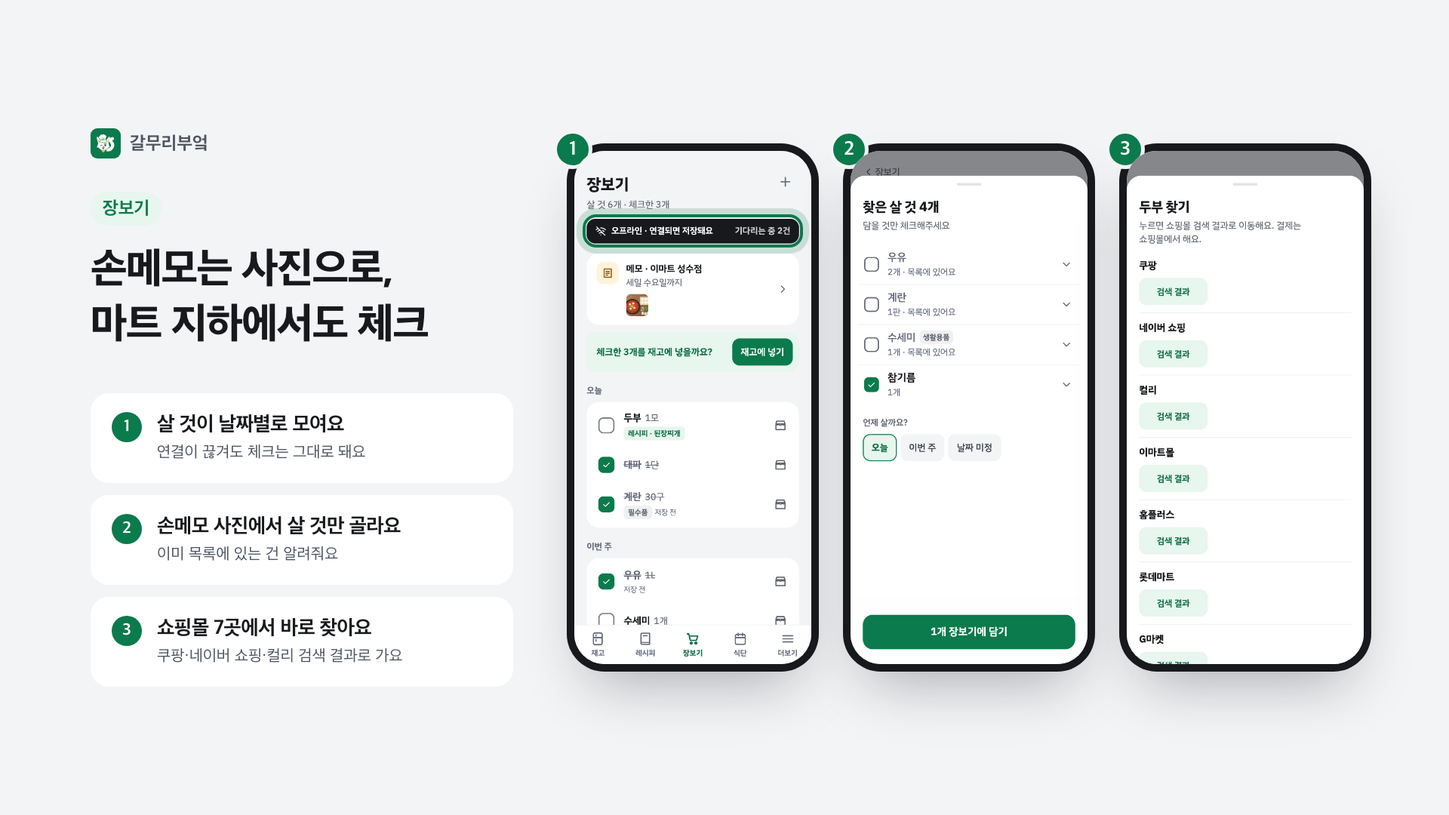
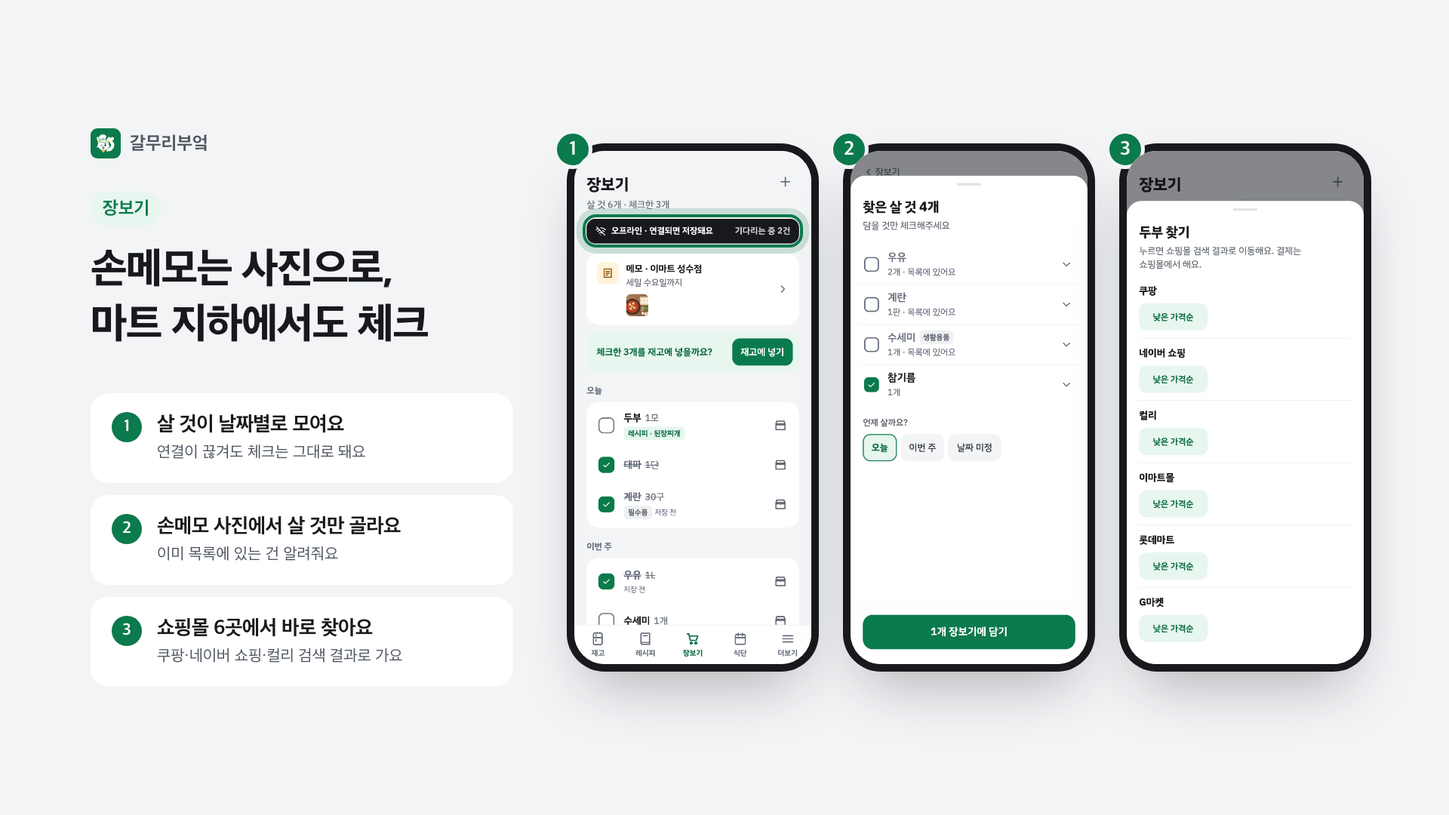
fix: 첫인상·접근성·제출 자료 다듬기
운영 화면 12장을 관점별로 다시 보고, 반증 검증을 통과한 것만 반영했습니다.

제출 자료 사실 오류
- 슬라이드 3번이 `쇼핑몰 7곳에서 바로 찾아요`라고 적고, 품고 있던 스크린샷은
  9/14판이라 9/17에 뺀 홈플러스가 찍혀 있었습니다. 실제 storeLinks.ts는
  쿠팡·네이버 쇼핑·컬리·이마트몰·롯데마트·G마켓 6곳입니다. 문구를 6곳으로
  고치고, 운영 체험 계정에서 같은 시트를 1152×2496으로 다시 찍어 바꾼 뒤
  슬라이드를 다시 구웠습니다. 심사위원이 운영에서 같은 화면을 열어도 이제
  어긋나지 않습니다.

첫인상
- 폰으로 /?demo=1을 연 사람은 이 앱이 무엇인지 알 방법이 없었습니다. 제목은
  `내 재고`뿐이고 앱 이름은 화면에 없으며, index.html의 좋은 한 줄은 1024px
  미만에서 display:none이라 폰에서는 구조적으로 못 봅니다. 체험 안내 카드
  첫 문장에 `갈무리부엌은 재료가 상하기 전에 알려주고, 그 재료로 만들 요리를
  찾아줘요`를 넣었습니다. 굵게 처리되는 조각과 조사 로직은 그대로입니다.

접근성
- 별점 `--star` #e0a100은 흰 카드 위 2.27:1로 WCAG 1.4.11(3:1)에 못 미쳤습니다
  → #b07e00(4.6:1). 다크 모드 #f5c542는 이미 10.5:1이라 그대로입니다.
- 첫 화면 `사진 찍어보기` 버튼이 연녹색 카드 위 흰 배경이라 경계가 1.12:1로
  묻혔습니다 → .btn.outline과 같은 방식으로 테두리(3.61:1).

카피 규칙
- 붙임 보조용언에서 빠져 있던 4곳(`추가해 보세요`·`확인해 보세요`)을 붙여 썼습니다.
  같은 앱 레시피 화면은 이미 `추가해보세요`로 붙여 씁니다.

문서 수치
- 커밋 781개·병합 261개, 백엔드 테스트 1,667개, 기준 커밋 4d2a0c3로 갱신
  (01·05·README). 체크리스트 4절 폰 점검 5건을 오늘 운영 확인 결과로 채웠습니다.

검증: 백엔드 1,667개(SQLite·PostgreSQL 모두), `npm run check`, `npm run build`,
로컬 E2E 81개 통과. 첫 화면은 로컬에서 직접 그려 카드가 목록을 밀지 않는 것을
확인했습니다.

Claude-Session: https://claude.ai/code/session_012cAehmfNdEpe3RmU76UHhU

Changed region(s): [[0.7812, 0.2139, 0.9375, 0.7944], [0.1562, 0.7639, 0.25, 0.7944]]

diff --git a/frontend/src/demoGuide.ts b/frontend/src/demoGuide.ts
@@ -28,8 +28,8 @@ export const dueText = (days: number) => (days === 0 ? "오늘까지예요" : da
 /** 재고 화면 안내 카드 문장을 [앞, 굵게, 뒤]로 */
 export function guideText(items: Dated[]): [string, string, string] {
   const first = urgentItems(items)[0];
-  if (!first) return ["냉장고를 미리 채워뒀어요. 곧 먹어야 할 재료로 뭘 만들 수 있을지 같이 볼까요?", "", ""];
-  return ["냉장고를 미리 채워뒀어요. 그런데 ", `${josa(first.name, "이", "가")} ${dueText(first.days_left!)}!`, ` ${withRo(first.name)} 뭘 만들 수 있을지 같이 볼까요?`];
+  if (!first) return ["갈무리부엌은 재료가 상하기 전에 알려주고, 그 재료로 만들 요리를 찾아줘요. 체험 냉장고를 채워뒀어요. 곧 먹어야 할 재료로 뭘 만들 수 있을지 같이 볼까요?", "", ""];
+  return ["갈무리부엌은 재료가 상하기 전에 알려주고, 그 재료로 만들 요리를 찾아줘요. 체험 냉장고를 채워뒀는데 ", `${josa(first.name, "이", "가")} ${dueText(first.days_left!)}!`, ` ${withRo(first.name)} 뭘 만들 수 있을지 같이 볼까요?`];
 }
 
 /** 레시피 추천 칸 AI 카드 말풍선. names는 급한 재료 이름(앞 두 개만 쓴다). 으로/로는 마지막 이름을 따른다 */

diff --git a/docs/submission/form/src/03-장보기.html b/docs/submission/form/src/03-장보기.html
@@ -6,7 +6,7 @@
 <ul class="points">
 <li><span class="n">1</span><div><b>살 것이 날짜별로 모여요</b><span>연결이 끊겨도 체크는 그대로 돼요</span></div></li>
 <li><span class="n">2</span><div><b>손메모 사진에서 살 것만 골라요</b><span>이미 목록에 있는 건 알려줘요</span></div></li>
-<li><span class="n">3</span><div><b>쇼핑몰 7곳에서 바로 찾아요</b><span>쿠팡·네이버 쇼핑·컬리 검색 결과로 가요</span></div></li>
+<li><span class="n">3</span><div><b>쇼핑몰 6곳에서 바로 찾아요</b><span>쿠팡·네이버 쇼핑·컬리 검색 결과로 가요</span></div></li>
 </ul></div>
 <div class="stage">
 <figure class="phone"><span class="n">1</span><div class="screen"><img class="" src="../../screenshots/15-offline-banner.png" alt=""><i class="ring" style="left:3.5%;top:12.4%;width:93%;height:6.4%"></i></div></figure>

diff --git a/frontend/src/components/StaplesSheet.tsx b/frontend/src/components/StaplesSheet.tsx
@@ -111,7 +111,7 @@ export default function StaplesSheet({ staples, initialMissingOnly = false, onCh
       )}
 
       {groups.length === 0 ? (
-        <p className="hint">{staples.length === 0 ? "아직 등록한 필수품이 없어요. 위에서 추가해 보세요." : "떨어진 필수품이 없어요."}</p>
+        <p className="hint">{staples.length === 0 ? "아직 등록한 필수품이 없어요. 위에서 추가해보세요." : "떨어진 필수품이 없어요."}</p>
       ) : (
         <div className="groups">
           {groups.map((group) => (

diff --git a/frontend/src/components/ToolForm.tsx b/frontend/src/components/ToolForm.tsx
@@ -118,7 +118,7 @@ export default function ToolForm({ initial, onSubmit, onChecked, onReplaced, onD
             ))}
           </div>
           {isCoated(name) && (
-            <p className="hint">코팅이 30% 이상 벗겨졌다면 교체를 권장해요(식약처 기준). 6개월마다 상태를 확인해 보세요.</p>
+            <p className="hint">코팅이 30% 이상 벗겨졌다면 교체를 권장해요(식약처 기준). 6개월마다 상태를 확인해보세요.</p>
           )}
         </div>
 

diff --git a/frontend/src/styles.css b/frontend/src/styles.css
@@ -29,7 +29,7 @@
   --protein: #2f7fd1;
   --fat: #b45fa8;
   --track: #e9ecef;
-  --star: #e0a100;
+  --star: #b07e00;
   color-scheme: light dark;
 }
 
@@ -7822,6 +7822,8 @@ button.ck-month {
 .demo-guide-acts .btn.secondary {
   background: var(--surface);
   color: var(--text);
+  /* 연녹색 카드 위 흰 버튼이라 경계가 1.12:1로 묻힌다 — .btn.outline과 같은 방식으로 테두리를 준다 */
+  box-shadow: inset 0 0 0 1.5px var(--control-line);
 }
 
 .r3-ai.spot {

diff --git a/frontend/src/pages/Fridge.tsx b/frontend/src/pages/Fridge.tsx
@@ -293,7 +293,7 @@ export default function Fridge({ user }: { user: User }) {
           ) : (
             <>
               <p>{items && items.length > 0 ? "이 위치에는 재료가 없어요." : "재고가 비어 있어요."}</p>
-              <p className="muted">아래 버튼으로 재료를 추가해 보세요.</p>
+              <p className="muted">아래 버튼으로 재료를 추가해보세요.</p>
             </>
           )}
         </div>

diff --git a/frontend/src/pages/Tools.tsx b/frontend/src/pages/Tools.tsx
@@ -77,7 +77,7 @@ export default function Tools() {
       ) : tools.length === 0 ? (
         <div className="empty">
           <p>등록한 도구가 없어요.</p>
-          <p className="muted">프라이팬, 뒤집개처럼 자주 쓰는 도구를 추가해 보세요.</p>
+          <p className="muted">프라이팬, 뒤집개처럼 자주 쓰는 도구를 추가해보세요.</p>
         </div>
       ) : (
         <ul className="list">

diff --git a/docs/submission/04-제출-체크리스트.md b/docs/submission/04-제출-체크리스트.md
@@ -35,6 +35,7 @@ push하면 Render가 1분쯤 뒤 자동으로 배포합니다(Auto-Deploy를 끄
 | [x] | 10 | `git push origin main`(`9410577`) | 사용자 | 완료. 쇼핑몰 6곳 모두 낮은 가격순(컬리·롯데마트 제타·G마켓 추가, 홈플러스 뺌), 식단 스크린샷 다시 찍기·39번 추가, 제출 문서·체크리스트 갱신. |
 | [x] | 11 | `git push origin main`(미뤄 둔 버그 수정, 9/17 밤) | 사용자 승인 | 화면 읽기·포커스 7건, 화면 동작 9건(메모 닫기 전 확인, `50원 미만`, 새 탭 열기 등), 서버·로그인 3건(로그인 뒤 보던 화면 유지, 출처 주소 검사, 같은 링크 다시 가져오기 안내). 검토 3건 통과, 백엔드 1,608개(SQLite·PostgreSQL), `npm run check`·`build`, E2E 79개 통과 뒤 push. |
 | [x] | 12 | `git push origin main`(`bbae138`) | 사용자 | 완료. 기본 필수품 72개를 모든 사용자에게(가입 시드 + 기존 사용자 한 번 채우기), 배너는 한 번이라도 있었던 필수품만, 필수품↔재료 이름 비교 규칙 분리. 로그인 말풍선 다크 테마 고침도 같은 날 push(`386b8f9`). |
+| [x] | 13 | `git push origin main`(`4d2a0c3`, 9/19 00:38) | Claude | 운영 화면을 폰 크기로 훑다 나온 읽기 어려운 곳 셋. ① **음식 찾기에 같은 이름이 줄줄이 서던 것** — 운영에서 `비빔밥`이 이름 똑같은 줄 6개로 나왔습니다(캐시에 `콩기름` 18개·`엑스트라버진올리브유` 15개처럼 흔함). 정렬 뒤 20개로 자르기 전에 같은 이름을 하나로 줄입니다(`foods.unique_by_name`, 설계 문서 결정 10 개정 3). ② 먹은 기록 날짜 시트 `kcal을 계산할 수 있는 기록이 없어요` → `남긴 기록에 kcal 정보가 없어요`(기록이 보이는 화면과 어긋나 읽힘). ③ 사진으로 추가 `예시 사진도 1번으로 세요` → `세어요`(`-세요`가 명령형으로 읽혀 주어가 사용자로 뒤집힘). README 수치 2건(체험 필수품 73개, 설계 31절)도 함께. 배포 뒤 운영 API로 검색어 5개 × 엔드포인트 2개 모두 중복 0종·목록 20줄 유지를 확인했습니다. |
 
 ## 1. 요강과 접수
 
@@ -82,14 +83,14 @@ push하면 Render가 1분쯤 뒤 자동으로 배포합니다(Auto-Deploy를 끄
 | 완료 | 할 일 | 담당 | 기한 | 메모 |
 |---|---|---|---|---|
 | [ ] | 크롬에서 **홈 화면에 추가** → 아이콘으로 열기 | 사용자 | 9/16 | 주소창 없이 열리는지 |
-| [ ] | 체험하기 → 재고 배지·필수품 배너 | 사용자 | 9/16 | 두부 D-1, 대파 D-2, 간장 떨어짐 |
+| [x] | 체험하기 → 재고 배지·필수품 배너 | 사용자 → Claude | 9/16 | **9/19 확인 완료** — 운영 배포에서 Claude가 폰 크기(384×854) 브라우저로 확인. 배지(두부 D-1·대파 D-2·김치 `구입 10일째`)와 필수품 배너(간장) 모두 정상. 운영 E2E `fridge.spec` 배지·배너 테스트 2건 통과. |
 | [ ] | 영수증·냉장고 사진 2~3장 한 번에 → 구입일 칩 → 재고에 넣기 | 사용자 | 9/16 | 실제 Claude 호출, 여러 장이 한도 1회로 세지는지 |
 | [ ] | AI 레시피 3개, 링크 가져오기(블로그 주소 1개), 레시피 사진으로 가져오기 | 사용자 | 9/16 | 체험 계정은 AI 레시피 한도 하루 5번을 AI 레시피·가져오기·AI 식단 초안이 함께 씁니다. 시연용 블로그 주소를 정해 둡니다. |
 | [ ] | 손메모 사진 → 살 것 뽑기, 살 것 추가의 `사진에서 뽑기`, 메모 사진 올리기 | 사용자 | 9/16 | R2 연결 확인 |
-| [ ] | 오프라인: 장보기 한 번 연 뒤 비행기 모드 → 앱 닫고 다시 열기 → 체크 → 비행기 모드 끄기 | 사용자 | 9/16 | 목록이 열리고, 연결 뒤 저장되는지 |
-| [ ] | 식단 탭: 체험 계정 예시 식단 → 장보기 목록 만들기 → AI 초안 → 넣기 | 사용자 | 9/16 | 인분·kcal 표시, 초안은 1분쯤 걸림. 폰 확인은 스크린샷으로 대신(9/17, 목표 정하기→주 보기→월 보기→장보기 목록 만들기 흐름: `21`·`22`·`24`). |
-| [ ] | 더보기 → 데이터 내보내기에 식단 줄, 받은 zip에 `meals.csv` | 사용자 | 9/16 | |
-| [ ] | 다크 테마에서 재고·장보기·레시피 상세·식단 | 사용자 | 9/16 | 식단만 스크린샷으로 확인(9/17 `27-meals-dark`). 재고·장보기·레시피 상세는 실기기 확인 필요. |
+| [x] | 오프라인: 장보기 한 번 연 뒤 비행기 모드 → 앱 닫고 다시 열기 → 체크 → 비행기 모드 끄기 | 사용자 → Claude | 9/16 | **9/19 확인 완료** — 운영 배포에서 Claude가 폰 크기(384×854) 브라우저로 확인(서비스워커를 켠 채). 연결을 끊고 새로고침해도 앱과 장보기 목록이 열리고, 끊긴 채 체크한 것이 연결 뒤 서버(`/api/shopping`의 `done_at`)까지 저장되는 것을 확인했습니다. |
+| [ ] | 식단 탭: 체험 계정 예시 식단 → 장보기 목록 만들기 → AI 초안 → 넣기 | 사용자 | 9/16 | 인분·kcal 표시, 초안은 1분쯤 걸림. 폰 확인은 스크린샷으로 대신(9/17, 목표 정하기→주 보기→월 보기→장보기 목록 만들기 흐름: `21`·`22`·`24`). **9/19: AI 초안을 뺀 나머지(주/월 보기·칸 채우기·장보기 목록 만들기)는 운영 배포에서 Claude가 폰 크기(384×854) 브라우저로 확인 — 운영 E2E `meals.spec` 6건 통과. AI 초안만 남았습니다(체험 AI 예산 하루 80콜을 아끼려고 미룸).** |
+| [x] | 더보기 → 데이터 내보내기에 식단 줄, 받은 zip에 `meals.csv` | 사용자 → Claude | 9/16 | **9/19 확인 완료** — 운영 배포에서 Claude가 폰 크기(384×854) 브라우저로 확인. 운영 E2E `more.spec`의 내보내기 테스트가 zip 수신까지 통과했습니다(같은 파일의 먹은 기록·내 몸 정보·탈퇴 테스트 포함 12/13 통과). |
+| [x] | 다크 테마에서 재고·장보기·레시피 상세·식단 | 사용자 → Claude | 9/16 | **9/19 확인 완료** — 운영 배포에서 Claude가 폰 크기(384×854) 브라우저로 확인(`prefers-color-scheme: dark`). 재고·장보기·레시피 상세 세 화면을 찍어 확인했고, `<html>`에 `data-theme="light"`가 붙지 않는 것과 body 배경이 어두운 값인 것도 함께 확인했습니다. 식단은 9/17 `27-meals-dark`. |
 | [ ] | 삼성 인터넷에서도 체험하기·오프라인 한 번 | 사용자 | 9/16 | |
 | [x] | 점검에서 나온 문제 고치기 | Claude | 9/17 | 완료 — 9/17 여러 번 push(0절 6~11번). 미뤄 둔 작은 버그도 9/17 밤에 고쳤습니다. |
 
@@ -112,6 +113,7 @@ push하면 Render가 1분쯤 뒤 자동으로 배포합니다(Auto-Deploy를 끄
 | [ ] | (선택) 3분 데모 리허설 2번(시간 재기) | 사용자 | 9/20까지 | 체험 계정은 같은 IP에서 1시간 30개 |
 | [ ] | (선택) 1분 소개 영상 녹화·자막 | 사용자 | 9/20까지 | [콘티](02-시연-시나리오.md#1분-소개-영상-콘티) |
 | [x] | 최종 테스트 다시 돌리기 | Claude | 9/17 | 완료 — 백엔드 1,605개(SQLite·PostgreSQL 모두 통과), `npm run check`, `npm run build`, E2E(Playwright) 74개 통과. |
+| [x] | 제출 슬라이드 3번 사실 오류 고치기 | Claude | 9/19 | 슬라이드가 `쇼핑몰 7곳에서 바로 찾아요`라고 적고, 품고 있던 스크린샷(`11-store-sheet.png`, 9/14판)에는 9/17에 뺀 홈플러스가 찍혀 있었습니다. 실제 `storeLinks.ts`는 쿠팡·네이버 쇼핑·컬리·이마트몰·롯데마트·G마켓 **6곳**입니다. 문구를 6곳으로 고치고, 운영 체험 계정에서 같은 시트를 1152×2496으로 다시 찍어 바꾼 뒤 슬라이드를 다시 구웠습니다(찍을 때 홈플러스가 없고 칩이 `낮은 가격순`인 것을 단언으로 확인). 심사위원이 운영에서 같은 화면을 열어도 이제 어긋나지 않습니다. |
 | [x] | 1차 제출(지금 스크린샷·05 답안 그대로) | 사용자 | **9/16 오전** | 임시저장은 제출이 아니니 **제출** 버튼까지. 9/20까지 고칠 수 있습니다. 9/16 완료 |
 | [x] | 서비스 링크 `https://galmuri-kitchen.onrender.com/?demo=1`을 폰 시크릿 탭에서 열어 로그인 화면 없이 재고 화면(체험 안내 카드)이 뜨는지 확인 | 사용자 | 최종 제출 직전, 9/20 23:59:59 전 한 번 더 | 9/18 사용자 폰 시크릿 탭 확인 완료(마감 직전 한 번 더 권장). 주최 측 안내(9/16): 로그인 화면이 먼저 뜨는 서비스는 로그인하지 않은 상태로도 쓸 수 있어야 합니다. 05 5절 링크가 이 주소이고, 이 기능(`feature/demo-link`)은 9/17 배포됐고, Claude가 새 브라우저로 로그인 화면 없이 재고 화면이 뜨는 것을 확인했습니다. 기본 주소는 지금처럼 로그인 화면입니다. |
 | [ ] | 최종 제출(새 스크린샷·폼 이미지·답안으로 고쳐 다시 제출) | 사용자 | **9/17 저녁** | 제출 직전 2절 환경변수 비교, 배포 주소가 열리는지 한 번 더 확인. 폼 이미지는 `form/`, 답안은 05. 공식 마감은 9/20 |

diff --git a/docs/superpowers/specs/2026-09-13-recipe-ai-design.md b/docs/superpowers/specs/2026-09-13-recipe-ai-design.md
@@ -903,7 +903,7 @@ CLI: `flask sync-public-recipes` — 식약처 COOKRCP01 전체(약 1,100건)를
   - QR은 `frontend/public/qr.svg`(주소 `https://galmuri-kitchen.onrender.com/`, 한 번 만들어 둔 정적 파일, 런타임 의존성 없음). 서비스 워커는 dist 파일을 모두 미리 받으므로 목록을 따로 고치지 않는다.
 - **B. 로그인 미리보기:** 로고와 버튼 사이에 3장(`찰칵 · 영수증 찍으면 끝이에요`, `잠깐만요 · 두부가 내일까지래요`, `그럼 오늘은 · 두부조림 어때요?`), 그림 없이 마크업으로 만든다. 4초마다 넘기고, 점을 누르면 그 장에서 멈춘다. 올려두거나 포커스가 안에 있으면 잠깐 멈추고, 움직임 줄이기면 넘기지 않는다. 캐러셀 `aria-roledescription`, 장마다 `n / 3`, 안 보이는 장은 `aria-hidden`+`inert`, 넘기는 동안 `aria-live="off"`·멈추면 `polite`, 점은 `n번째 미리보기` 버튼(`aria-current`). 로고와 버튼 사이 남는 자리만 쓴다(버튼을 아래로 밀지 않는다) — 트랙이 138~199px이면 줄여 보이고, 70~137px이면 제목만, 그보다 작으면 숨긴다. 마우스를 올리면 멈추고(터치 탭은 멈추지 않음), 점 묶음에 `점을 누르면 넘기기를 멈춰요`(스크린리더). 버튼 순서·로직은 그대로.
 - **C. 체험 계정 첫 30초(`provider = demo`):** 계정마다 한 번(`localStorage demoGuideDone:<user id>`, 닫기·두 버튼 중 하나를 누르면 기억).
-  - 재고 맨 위 안내 카드(떠 있는 동안 `필수품 N개가 떨어졌어요` 배너는 숨기고, 닫으면 다시 보인다): `냉장고를 미리 채워뒀어요. 그런데 **{가장 급한 재료}{이/가} {오늘까지예요|내일까지예요|N일 남았어요}!** {재료}{으로/로} 뭘 만들 수 있을지 같이 볼까요?`. 급한 재료 = 상태 `urgent`이고 아직 안 지난(D-0 이상) 재료 중 남은 날이 가장 적은 것. 없으면 `냉장고를 미리 채워뒀어요. 곧 먹어야 할 재료로 뭘 만들 수 있을지 같이 볼까요?`. 버튼 `요리 찾아보기`(레시피 추천 칸으로, 아래 짚기) · `사진 찍어보기`(재고의 사진으로 추가 시트, 스캔 off면 숨기고 요리 찾아보기가 한 줄을 다 쓴다) · ✕ `안내 닫기`.
+  - 재고 맨 위 안내 카드(떠 있는 동안 `필수품 N개가 떨어졌어요` 배너는 숨기고, 닫으면 다시 보인다): `갈무리부엌은 재료가 상하기 전에 알려주고, 그 재료로 만들 요리를 찾아줘요. 체험 냉장고를 채워뒀는데 **{가장 급한 재료}{이/가} {오늘까지예요|내일까지예요|N일 남았어요}!** {재료}{으로/로} 뭘 만들 수 있을지 같이 볼까요?`. 급한 재료 = 상태 `urgent`이고 아직 안 지난(D-0 이상) 재료 중 남은 날이 가장 적은 것. 없으면 `갈무리부엌은 재료가 상하기 전에 알려주고, 그 재료로 만들 요리를 찾아줘요. 체험 냉장고를 채워뒀어요. 곧 먹어야 할 재료로 뭘 만들 수 있을지 같이 볼까요?`. 버튼 `요리 찾아보기`(레시피 추천 칸으로, 아래 짚기) · `사진 찍어보기`(재고의 사진으로 추가 시트, 스캔 off면 숨기고 요리 찾아보기가 한 줄을 다 쓴다) · ✕ `안내 닫기`.
   - 레시피 추천 칸 AI 카드 짚기: `요리 찾아보기`로 왔을 때 한 번(모듈 변수) AI 카드에 초록 테두리 + 말풍선 `여기를 눌러보세요. {A}랑 {B}로 만들 요리를 바로 골라줘요.`(으로/로는 마지막 이름을 따른다. 하나면 `{A}{으로/로} 만들 요리를…`, 없으면 `곧 먹어야 할 재료로 만들 요리를…`. 남은 횟수는 카드 보조 줄 `오늘 N번 남음`이 이미 보여 준다). 카드 버튼에 포커스하고 말풍선은 `aria-describedby`. 카드를 누르거나 카드·말풍선 밖을 누르거나 Esc·카드가 화면 밖으로 나가거나 다른 칸으로 가면 사라지고, 추천으로 돌아와도 다시 뜨지 않는다(로그아웃 때도 지운다). AI 카드가 없는 모드면 짚지 않는다.
   - 글자 만들기는 `src/demoGuide.ts`(조사 이/가·이랑/랑·으로/로 — ㄹ받침은 `로`, 한글이 아니면 `(이)가`·`(이)랑`·`(으)로`, 앞뒤 공백은 뗀다), 검사 `scripts/check-demo-guide.mjs`.
 - **D. 바로 체험 주소 `/?demo=1`(추가: 2026-09-16, 사용자 승인, 제출 서비스 링크):** 주소의 `demo`(값은 아무거나, 해시 경로 안의 `?demo`는 보지 않는다)는 앱을 열 때 한 번 읽고 `history.replaceState`로 지운다(해시 경로는 그대로). `/api/me`가 로그인 안 됐다고 하면 로그인 화면 대신 `체험 공간을 여는 중이에요`(시작 화면이 먼저 가린다)를 보이며 `로그인 없이 체험하기`와 같은 요청·흐름으로 연다 — 재고와 C 안내 카드. 실패(IP 한도 429·체험 꺼짐·네트워크)하면 보통 로그인 화면에 버튼과 같은 오류를 보인다. 이미 로그인돼 있으면 그 계정 그대로 열고, 나중에 로그아웃해도 체험 계정을 만들지 않는다. 앱을 연 뒤 한 번만 보낸다(StrictMode에서 효과가 두 번 돌아도 하나, `Login.tsx` 모듈 변수 `demoLink`). `demo` 없는 주소는 지금처럼 로그인 화면이고 PC 소개·QR(주소 `/`)도 그대로다. 검사 `e2e/login.spec.ts`.

diff --git a/docs/submission/05-제출-양식-답안.md b/docs/submission/05-제출-양식-답안.md
@@ -2,7 +2,7 @@
 
 원티드 AI Championship 2026 제출 양식에 그대로 붙여 넣을 답안입니다.
 코드 블록 안의 글이 붙여 넣을 내용입니다. 답안은 심사위원이 읽는 글이라 합니다체로 맞췄습니다.
-수치는 2026-09-18 기준(`main` `6d6f5fa`)입니다. 9/17 최종 제출 뒤 회원 탈퇴·내 몸 정보 동의를 더해 값이 바뀌었습니다.
+수치는 2026-09-19 기준(`main` `4d2a0c3`)입니다. 9/17 최종 제출 뒤 회원 탈퇴·내 몸 정보 동의를 더해 값이 바뀌었습니다.
 
 ## 1. 제목 (30자 이내)
 
@@ -81,8 +81,8 @@
 - 사용자의 재고·식습관 데이터 판매와 배너 광고는 하지 않습니다.
 
 ■ 결과
-- 약 133시간, 커밋 773개, 병합 258개
-- 백엔드 테스트 1,666개(SQLite·PostgreSQL 통과), 프론트 검사 스크립트 11개, E2E(Playwright) 81개, 화면 시안 16묶음 승인 후 구현
+- 약 134시간, 커밋 781개, 병합 261개
+- 백엔드 테스트 1,667개(SQLite·PostgreSQL 통과), 프론트 검사 스크립트 11개, E2E(Playwright) 81개, 화면 시안 16묶음 승인 후 구현
 - 사진으로 재고 넣기, 임박 경고, AI 레시피, 링크·사진 가져오기(여러 요리는 최대 5개까지 골라 가져오기), 영상 검색(제목·설명), 양념 비율 계산, 오프라인 장보기, 쇼핑몰에서 한꺼번에 찾기, 식단 짜기(AI 초안·식단으로 장보기), 영양 계산(하루 칼로리 목표·레시피 영양·식단 하루 합계), 먹은 기록 달력, 요리 일기(레시피로·직접 쓰기)·집밥 리포트, 레시피 상세 재고 남은 양·다 썼어요 표시가 지금 동작합니다.
 - 체험: 서비스 링크를 누르면 로그인 없이 체험 계정으로 바로 열립니다(로그인 화면은 https://galmuri-kitchen.onrender.com).
 - 기술: React·TypeScript·Vite(PWA), Flask·PostgreSQL, Render, Cloudflare R2, YouTube Data API, 식품안전나라 레시피 API, 식품영양성분 DB(공공데이터포털)
@@ -101,7 +101,7 @@
 - 기능마다 git worktree에서 구현 에이전트가 만들고, 코드·보안·UX·접근성·테스트 검토 에이전트가 병렬로 본 뒤 검증 에이전트가 테스트로 확인했습니다. 사람은 기능 범위를 정하고 시안을 승인했습니다.
 
 ■ 결과
-- 약 133시간, 커밋 773개, 병합 258개, 백엔드 테스트 1,666개(SQLite·PostgreSQL), E2E 81개, 시안 16묶음 승인
+- 약 134시간, 커밋 781개, 병합 261개, 백엔드 테스트 1,667개(SQLite·PostgreSQL), E2E 81개, 시안 16묶음 승인
 - AI 원가는 호출마다 토큰으로 기록하고, 유료 구독은 AI 사용 횟수로만 나눌 계획입니다. 데이터 판매·배너 광고는 하지 않습니다.
 - 체험: 서비스 링크를 누르면 로그인 없이 체험 계정으로 바로 열립니다.
 ```

diff --git a/README.md b/README.md
@@ -252,7 +252,7 @@ macOS 기준이며, 명령은 저장소 루트에서 시작합니다.
 ### 테스트
 
 ```
-backend/.venv/bin/pytest -q -W error::DeprecationWarning   # 백엔드 1,666개
+backend/.venv/bin/pytest -q -W error::DeprecationWarning   # 백엔드 1,667개
 cd frontend && npm run check && npm run build              # 순수 로직 검사 스크립트 11개 + 타입 검사·빌드(빌드 전에 styles.css 괄호 짝 검사)
 cd frontend && npm run e2e                                 # 화면 단위 테스트(Playwright) 81개 — 처음 한 번 npx playwright install chromium
 ```
@@ -265,11 +265,11 @@ PostgreSQL 검증, 마이그레이션 점검, Docker 스모크 테스트, Render
 
 | 항목 | 수치 |
 |---|---|
-| 기간 | 2026-09-13 10:51 첫 커밋 → 2026-09-18 23:08 `6d6f5fa`(약 133시간) |
-| 커밋 | 773개(병합 258) |
+| 기간 | 2026-09-13 10:51 첫 커밋 → 2026-09-19 00:38 `4d2a0c3`(약 134시간) |
+| 커밋 | 781개(병합 261) |
 | 설계 | [설계 문서](docs/superpowers/specs/2026-09-13-recipe-ai-design.md) 31절, [구현 계획](docs/superpowers/plans/) 13개 |
 | 화면 시안 | [`docs/design/`](docs/design/) 16묶음, 사용자 승인 후 구현 |
-| 테스트 | 백엔드 1,666개(SQLite·PostgreSQL 통과), 프론트 검사 스크립트 11개, E2E(Playwright) 81개 |
+| 테스트 | 백엔드 1,667개(SQLite·PostgreSQL 통과), 프론트 검사 스크립트 11개, E2E(Playwright) 81개 |
 
 단계: 1 기반·로그인 → 1b 보관 위치·필수품·품목별 경고 → 1c 하단 탭·주방 도구 → 1d 사용성 → 2 사진 인식 → 3a 레시피·추천 → 3b AI 레시피·링크·영상 → 3c 양념 비율 → 더보기 정리 → 4 장보기·오프라인·체험 계정 → 4b-1 식단 짜기 → 4b-2 영양 계산 → 4b-3 먹은 기록 → 5 요리 일기·집밥 리포트.
 
